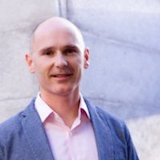
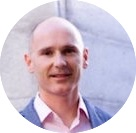
pictures added to index8

diff --git a/index.html b/index.html
@@ -122,14 +122,14 @@
                 </div>
                 <div class="col-lg-3 col-md-6 text-center">
                     <div class="service-box">
-                        <img src="img/portfolio/thumbnails/1.jpg" class="img-responsive" alt="">
+                        <img src="img/portfolio/thumbnails/andrew.jpg" class="img-responsive" alt="">
                         <h3>Up to Date</h3>
                         <p class="text-muted">We update dependencies to keep things fresh.</p>
                     </div>
                 </div>
                 <div class="col-lg-3 col-md-6 text-center">
                     <div class="service-box">
-                        <img src="img/portfolio/thumbnails/1.jpg" class="img-responsive" alt="">
+                        <img src="img/portfolio/thumbnails/chrism.jpg" class="img-responsive" alt="">
                         <h3>Made with Love</h3>
                         <p class="text-muted">You have to make your websites with love these days!</p>
                     </div>
